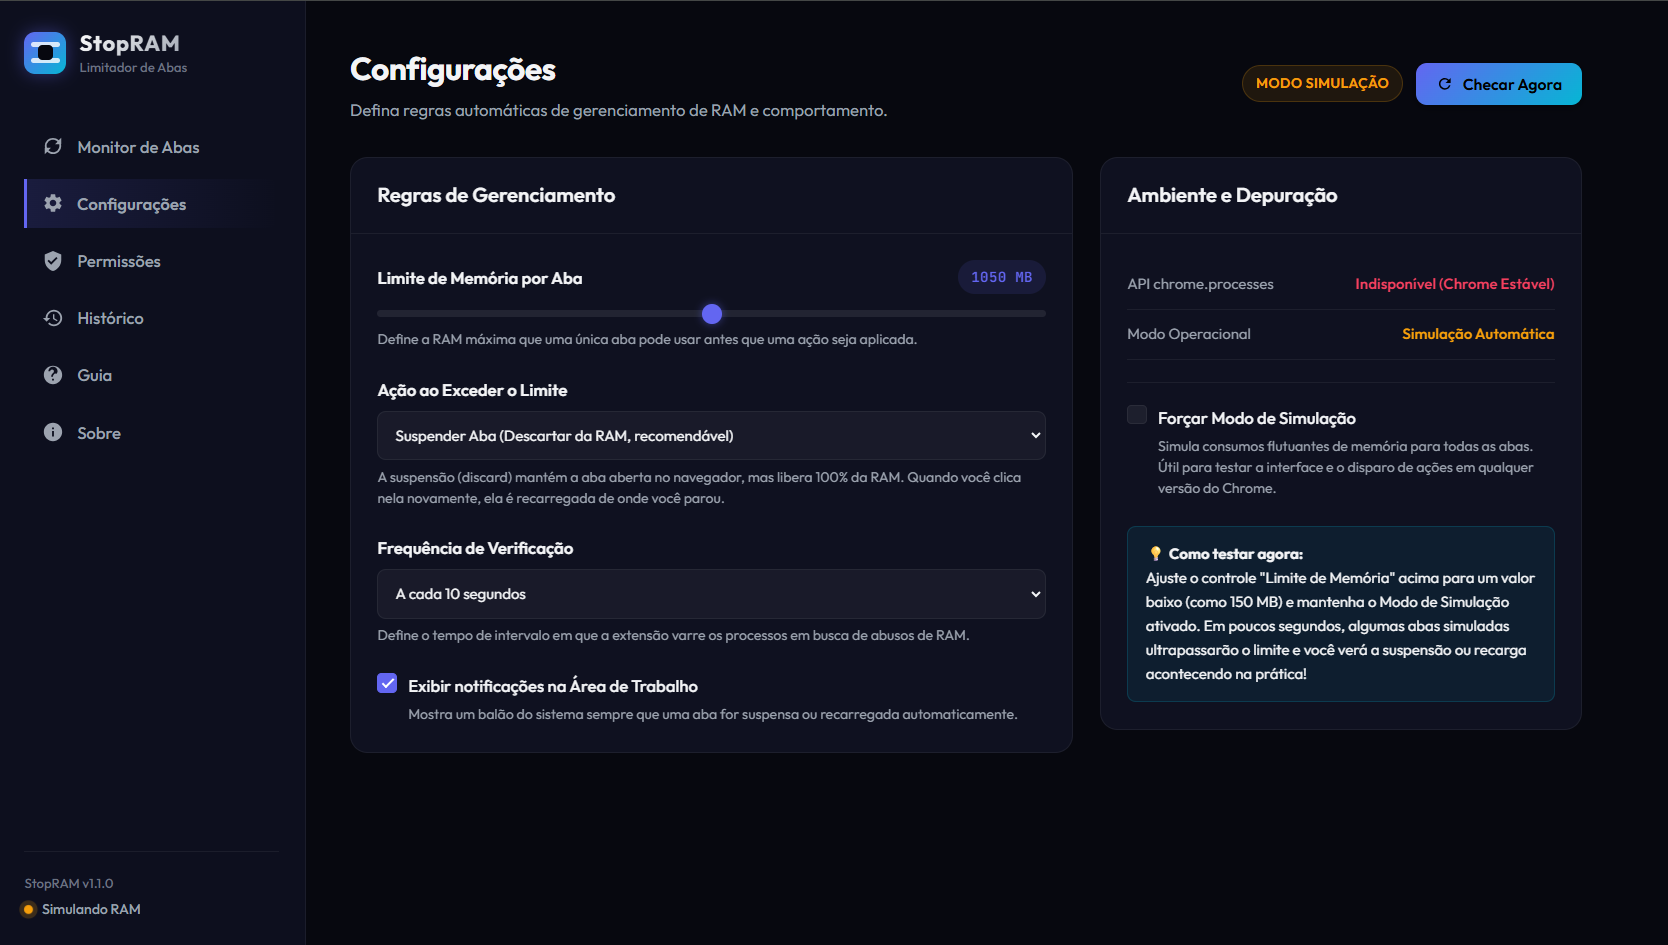
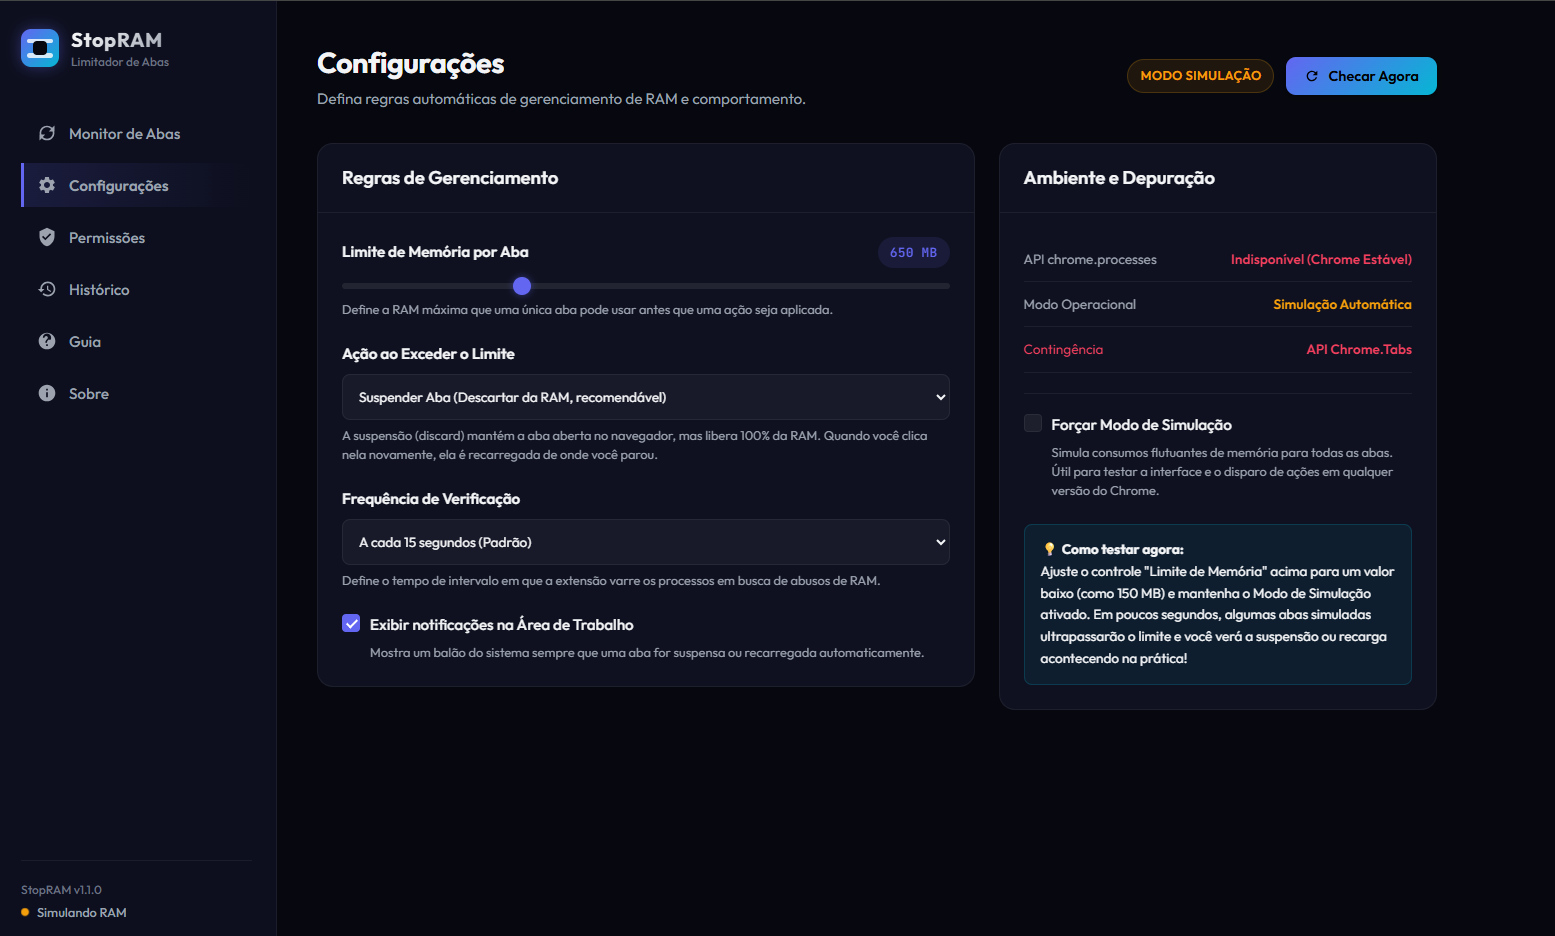
feat: replace stopram2.png with updated version and add 12th screenshot stopram12.png to gallery

diff --git a/stopram-telas.html b/stopram-telas.html
@@ -631,6 +631,17 @@
                     </div>
                 </div>
 
+                <!-- Thumb 12 -->
+                <div class="thumb-card" data-img="Imagens/stopram12.png" data-badge="Monitoramento Físico" data-icon="fa-microchip" data-title="Monitoramento Físico (Modo Real)" data-desc="Interface da extensão rodando em Modo Real em versões de desenvolvimento do navegador (Chrome Dev ou Canary). O painel exibe o status de monitoramento físico real (em verde) e faz a coleta física de Process IDs (PIDs) e uso real de hardware diretamente através da API chrome.processes, sem simulação.">
+                    <div class="thumb-img-wrapper">
+                        <img src="Imagens/stopram12.png" class="thumb-img" alt="Monitoramento Físico">
+                    </div>
+                    <div class="thumb-info">
+                        <div class="thumb-title">Monitoramento Real <span>(Tela 12)</span></div>
+                        <p class="thumb-desc">Painel operando em Modo Real com dados físicos de RAM e processos.</p>
+                    </div>
+                </div>
+
             </div>
 
         </section>